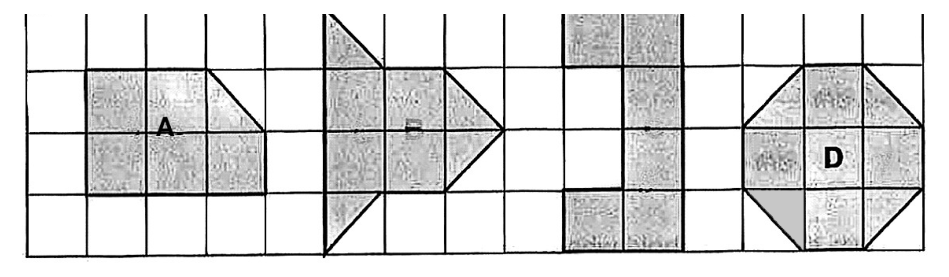
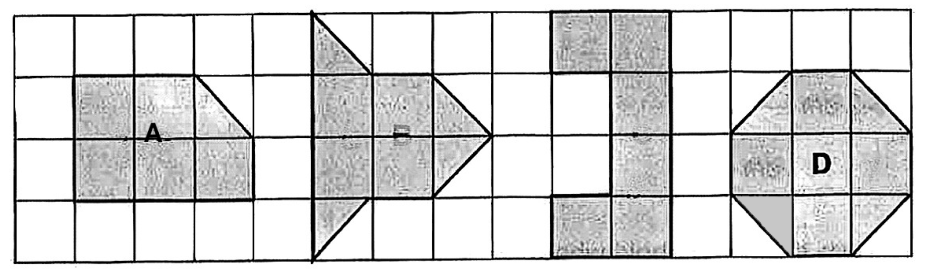
Tester fixes prepared (not applied yet): Raffles Girls Q9 key 3, two composite-figure grids with full border, prism with 3 cm + incomplete net, two pyramid-net MCQs with all four nets and plain option labels, Ai Tong Q6 stem; content/scripts/apply-edits.ts (dry run, live check, undo) [eas skip] [ski
Claude-Session: https://claude.ai/code/session_01ARvrhaw26MYvWF2CsHar4v

diff --git a/content/scripts/apply-edits.ts b/content/scripts/apply-edits.ts
@@ -1,0 +1,90 @@
+// Apply a JSON list of editor-bank edits: [{ id, field, old, new, reason }].
+//   npx tsx scripts/apply-edits.ts [file.json] --dry   -> shows what would change (reads only)
+//   npx tsx scripts/apply-edits.ts [file.json]         -> writes; undo manifest in content/reports/edits-undo-<stamp>.json
+// Default file: reports/tester-fixes-2026-10-18.json. `field` is an editor field or a dotted path into a map
+// (e.g. "answer_key", "question", "options.2"). For every edit the live value is re-read first and the edit is
+// REFUSED when live != old (an edit whose live value already equals `new` is reported as already applied).
+// Any refusal aborts before anything is written. Stamps last_edited_by "app-tester-fix" and last_edited_at (ISO).
+// Add --notes to also append each reason to verification_notes. Needs the service account (see skill §3).
+import fs from "node:fs";
+import { fetch as ufetch } from "undici";
+import { accessToken, loadCredentials, makeDispatcher, fromFsFields } from "../src/sync";
+
+interface Edit { id: string; field: string; old: unknown; new: unknown; reason?: string }
+const BASE = "https://firestore.googleapis.com/v1/projects/primary-math-sg/databases/default/documents/questions";
+const args = process.argv.slice(2);
+const DRY = args.includes("--dry");
+const NOTES = args.includes("--notes");
+const file = args.find((a) => !a.startsWith("--")) ?? "reports/tester-fixes-2026-10-18.json";
+const edits: Edit[] = JSON.parse(fs.readFileSync(file, "utf8"));
+
+const same = (a: unknown, b: unknown) => JSON.stringify(a) === JSON.stringify(b);
+const getPath = (o: unknown, path: string[]): unknown => path.reduce<unknown>((c, k) => (c && typeof c === "object" ? (c as Record<string, unknown>)[k] : undefined), o);
+const q = (seg: string) => (/^[A-Za-z_][A-Za-z0-9_]*$/.test(seg) ? seg : `\`${seg}\``);
+function toFs(v: unknown): unknown {
+  if (typeof v === "string") return { stringValue: v };
+  if (typeof v === "boolean") return { booleanValue: v };
+  if (typeof v === "number") return Number.isInteger(v) ? { integerValue: String(v) } : { doubleValue: v };
+  if (v === null) return { nullValue: null };
+  throw new Error(`unsupported value type for ${JSON.stringify(v)}`);
+}
+/** Nest a leaf value under its dotted path as mapValue wrappers; merge siblings sharing a prefix. */
+function putNested(fields: Record<string, any>, path: string[], leaf: unknown) {
+  const [head, ...rest] = path;
+  if (!rest.length) { fields[head] = leaf; return; }
+  fields[head] ??= { mapValue: { fields: {} } };
+  putNested(fields[head].mapValue.fields, rest, leaf);
+}
+
+(async () => {
+  const byId = new Map<string, Edit[]>();
+  for (const e of edits) byId.set(e.id, [...(byId.get(e.id) ?? []), e]);
+  const token = await accessToken(loadCredentials());
+  const dispatcher = makeDispatcher();
+  const plan: { id: string; updateTime: string; todo: Edit[]; liveNotes: unknown }[] = [];
+  const refused: string[] = [];
+  const undo: { id: string; field: string; old: unknown; new: unknown }[] = [];
+
+  for (const [id, list] of byId) {
+    const r = await ufetch(`${BASE}/${id}`, { headers: { Authorization: `Bearer ${token}` }, dispatcher });
+    if (!r.ok) { refused.push(`${id}: read failed ${r.status}`); continue; }
+    const doc = (await r.json()) as { fields: never; updateTime: string };
+    const live = fromFsFields(doc.fields);
+    const todo: Edit[] = [];
+    for (const e of list) {
+      const cur = getPath(live, e.field.split("."));
+      if (same(cur, e.new)) console.log(`already applied ${id} ${e.field}`);
+      else if (!same(cur, e.old)) refused.push(`${id} ${e.field}: live ${JSON.stringify(cur)} != expected old ${JSON.stringify(e.old)}`);
+      else { todo.push(e); console.log(`${DRY ? "would set" : "set"} ${id} ${e.field}:\n  ${JSON.stringify(cur)}\n  -> ${JSON.stringify(e.new)}`); }
+    }
+    if (todo.length) plan.push({ id, updateTime: doc.updateTime, todo, liveNotes: (live as { verification_notes?: unknown }).verification_notes });
+  }
+  if (refused.length) { console.error("REFUSED, nothing written:\n  " + refused.join("\n  ")); process.exit(2); }
+  if (DRY) { console.log(`dry run: ${plan.reduce((n, p) => n + p.todo.length, 0)} edit(s) on ${plan.length} doc(s) would be written`); return; }
+
+  const stamp = new Date().toISOString().replace(/[:.]/g, "-");
+  const undoFile = `reports/edits-undo-${stamp}.json`;
+  for (const p of plan) {
+    const fields: Record<string, any> = {};
+    const masks: string[] = [];
+    for (const e of p.todo) {
+      const path = e.field.split(".");
+      putNested(fields, path, toFs(e.new));
+      masks.push(path.map(q).join("."));
+      undo.push({ id: p.id, field: e.field, old: e.old, new: e.new });
+    }
+    if (NOTES) {
+      const add = p.todo.map((e) => `FIXED 2026-10-18 (app tester) ${e.field}: ${e.reason ?? ""}`).join("\n");
+      fields.verification_notes = toFs([p.liveNotes, add].filter(Boolean).join("\n"));
+      masks.push("verification_notes");
+    }
+    fields.last_edited_by = toFs("app-tester-fix"); masks.push("last_edited_by");
+    fields.last_edited_at = toFs(new Date().toISOString()); masks.push("last_edited_at");
+    const qs = [...masks.map((m) => `updateMask.fieldPaths=${encodeURIComponent(m)}`), `currentDocument.updateTime=${encodeURIComponent(p.updateTime)}`].join("&");
+    const u = await ufetch(`${BASE}/${p.id}?${qs}`, { method: "PATCH", dispatcher, headers: { Authorization: `Bearer ${token}`, "Content-Type": "application/json" }, body: JSON.stringify({ fields }) });
+    if (!u.ok) { fs.writeFileSync(undoFile, JSON.stringify(undo, null, 1)); throw new Error(`${p.id}: ${u.status} ${(await u.text()).slice(0, 200)} (undo so far in ${undoFile})`); }
+    console.log("updated", p.id);
+    fs.writeFileSync(undoFile, JSON.stringify(undo, null, 1)); // after every doc, so a crash still leaves an undo
+  }
+  console.log(`undo manifest: content/${undoFile} (to undo: swap old/new in a copy and run this script on it)`);
+})().catch((e) => { console.error(e.message ?? e); process.exit(1); });

diff --git a/skills/catapult-math-athletes/SKILL.md b/skills/catapult-math-athletes/SKILL.md
@@ -261,6 +261,15 @@ undo: `content/reports/figure-cut-recrops-undo-2026-10-17.json`). Method:
 - Left for a human (see the report): 2023_Temasek_P1A_Q10, 2024_Rosyth_P1_Q30 (cut, PDF match too weak);
   2022_MGS_P1_Q24, 2022_MGS_P2_Q17, 2022_Catholic_P2_Q15 (image has no figure: remove it in the editor);
   2026_TN_P1_25, 2024_RedSwastika_P1_Q20 (label cut in the scan itself).
+- **Non-figure editor edits** (answer key, option texts, stems) go through `content/scripts/apply-edits.ts`: it applies a JSON list
+  `[{id, field, old, new, reason}]` (e.g. `content/reports/tester-fixes-2026-10-18.json`; `field` = `answer_key`, `question`,
+  `options.2` …). Run `npx tsx scripts/apply-edits.ts <file> --dry` first; it re-reads each doc live, refuses everything when
+  live != `old`, stamps `last_edited_by` "app-tester-fix" + `last_edited_at`, and writes `reports/edits-undo-<stamp>.json`.
+  Prepared 18 Oct 2026 (tester round, NOT yet applied: editor over read quota): 2026_Raffles_Girls_P1A_Q09 key 2 -> 3 (marking
+  scheme Q9 = 3; M's V is a right angle), Catholic High Q09 / MGS Paya Lebar Q10 picture-option texts -> "Visual option N",
+  Ai Tong Q06 stem loses "Use the information below to answer Questions 6 and 7." Re-cuts in `content/recrops/P6/`: Red Swastika 2025 Q11
+  and Ai Tong 2026 Q11 (full grid border), ACS Junior 2025 Q07 (prism + 3 cm + incomplete net), Catholic High 2026 Q09,
+  MGS Paya Lebar 2025 Q10 (nets (1)-(4)); apply with apply-recrops on a folder holding just those five.
 
 ## 7. Testing the app in a browser
 - `web-preview.py` → `dist-preview/`; serve with `python3 -m http.server PORT`; drive with Playwright
